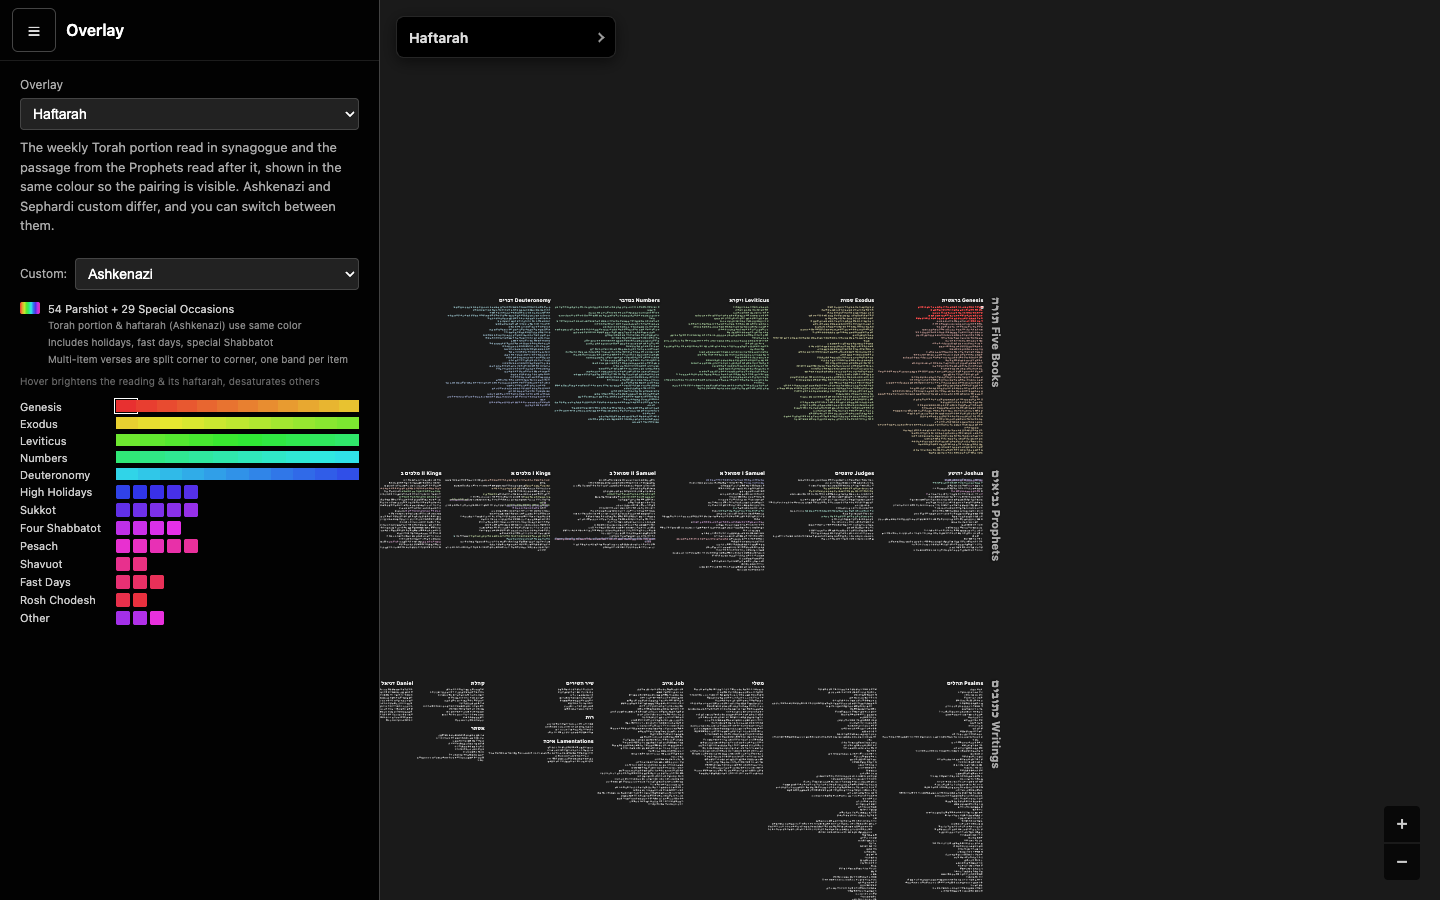
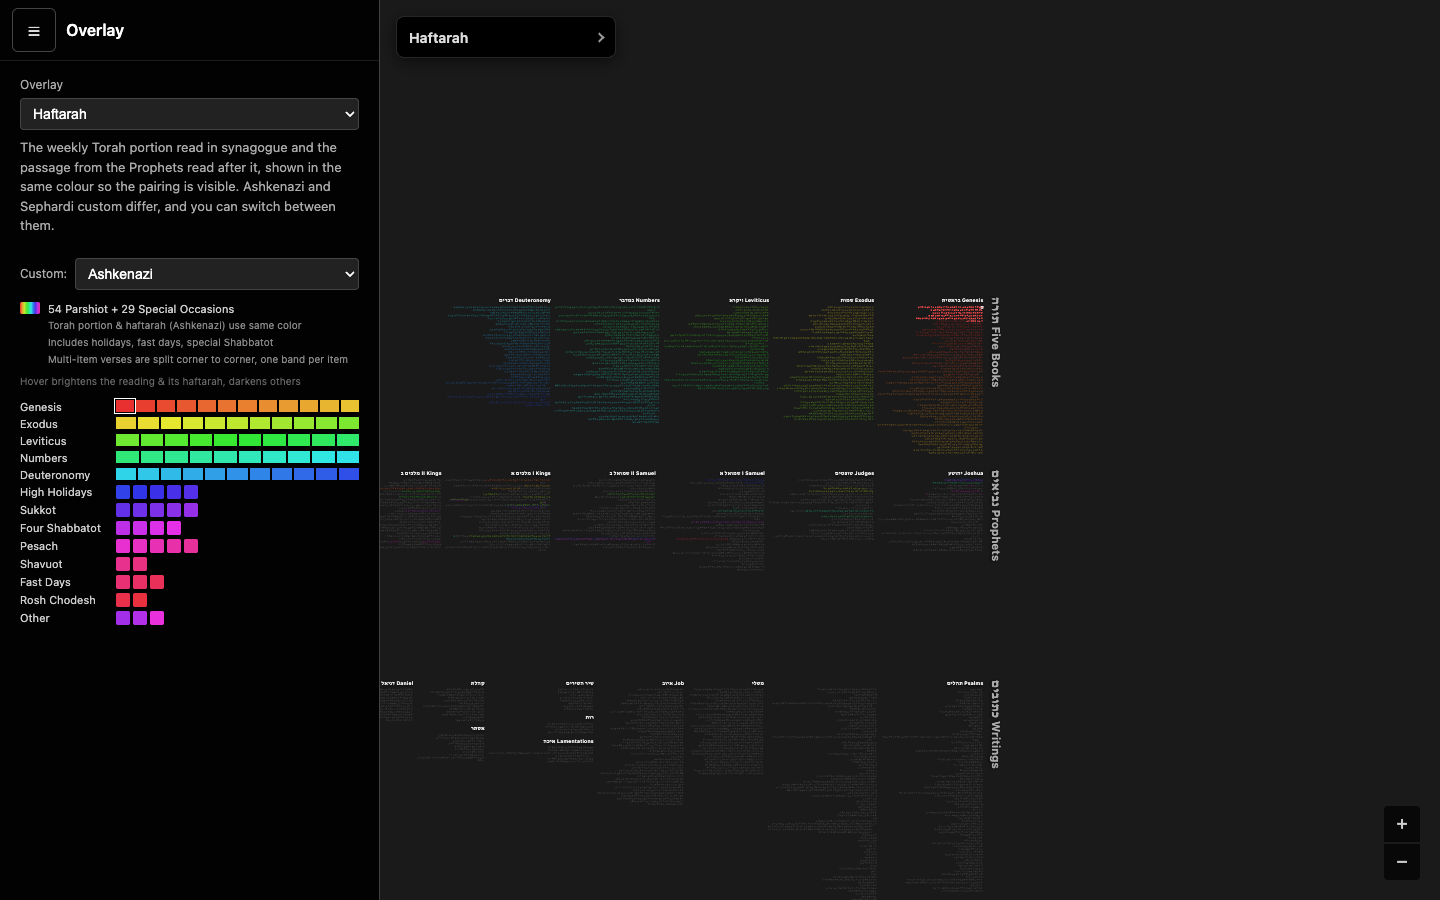
Widen the legend's hover areas and share Trop's hover linger
Each reading's hover area reaches halfway across the gaps around it, so
sweeping the pointer along the key moves from reading to reading without
passing over nothing. The 150ms linger Trop's chart used moves to
utils/hover.ts, and the legend uses it too.

diff --git a/src/overlays/trop.ts b/src/overlays/trop.ts
@@ -10,6 +10,7 @@ import { tanakhKey, tanakhIdentitiesEqual } from '../types.ts';
 import { isNikkud } from '../hebrew.ts';
 import type { VerseTexts } from '../verseTexts.ts';
 import { buildTropIndex, getTropByFrequency, getRarityTier } from '../trop.ts';
+import { lingeringHover } from '../utils/hover.ts';
 import { HIGHLIGHT_CONSTANTS } from '../constants.ts';
 import { scaleToGradient, buildLegendGradient, interpolateGradient } from '../utils/color.ts';
 import type { ColorStop } from '../utils/color.ts';
@@ -28,9 +29,6 @@ export interface TropSettings {
   readonly mark: string | null;
   readonly preview: string | null;
 }
-
-/** How long a preview outlasts the pointer, so crossing the gap between buttons does not blink the map. */
-const PREVIEW_LINGER_MS = 150;
 
 function shownMark(settings: TropSettings): string | null {
   return settings.preview ?? settings.mark;
@@ -166,7 +164,9 @@ function renderTropChart(
       </div>
     `;
     chart = container.querySelector('.trop-chart') as HTMLElement;
-    let leaving: ReturnType<typeof setTimeout> | undefined;
+    const preview = lingeringHover<string>((slug) =>
+      onChange((current) => ({ ...current, preview: slug })),
+    );
 
     for (const entry of tropByFrequency) {
       const slug = slugify(entry.name);
@@ -180,17 +180,8 @@ function renderTropChart(
         button.classList.add('rare');
       }
 
-      button.addEventListener('mouseenter', () => {
-        clearTimeout(leaving);
-        onChange((current) => ({ ...current, preview: slug }));
-      });
-
-      button.addEventListener('mouseleave', () => {
-        leaving = setTimeout(
-          () => onChange((current) => ({ ...current, preview: null })),
-          PREVIEW_LINGER_MS,
-        );
-      });
+      button.addEventListener('mouseenter', () => preview.enter(slug));
+      button.addEventListener('mouseleave', () => preview.leave());
 
       button.addEventListener('click', () => {
         onChange((current) => ({ ...current, mark: current.mark === slug ? null : slug }));

diff --git a/src/main.ts b/src/main.ts
@@ -50,6 +50,7 @@ import {
 } from './urlState.ts';
 import { resolveViewState, cameraForView, type ViewState } from './viewState.ts';
 import { debounce } from './utils/debounce.ts';
+import { lingeringHover } from './utils/hover.ts';
 import { getSidebarElements, updateSidebar, setWordClickHandler } from './sidebar.ts';
 import {
   createCamera,
@@ -974,18 +975,23 @@ async function main(): Promise<void> {
 
   // A legend entry marked with `data-hover-verse` hovers that verse, colouring
   // the map as the cursor over it would; the popup stays shut.
+  const legendHover = lingeringHover<TanakhLayout>((verse) => {
+    const previousHover = mouseState.hoveredVerse;
+    if (tanakhIdentitiesEqual(previousHover, verse)) return;
+    setHoveredVerse(mouseState, verse);
+    repaint(previousHover);
+  });
+
   function hoverFromLegend(e: PointerEvent): void {
     if (e.pointerType === 'touch') return;
     const target =
       e.type === 'pointerleave' ? null : (e.target as Element).closest('[data-hover-verse]');
     const ref = target instanceof HTMLElement ? target.dataset.hoverVerse : undefined;
     const parsed = ref ? parseVerseFromUrl(ref) : null;
-    const verse = parsed ? (findTanakhItem(verses, parsed) ?? null) : null;
+    const verse = parsed ? findTanakhItem(verses, parsed) : undefined;
 
-    const previousHover = mouseState.hoveredVerse;
-    if (tanakhIdentitiesEqual(previousHover, verse)) return;
-    setHoveredVerse(mouseState, verse);
-    repaint(previousHover);
+    if (verse) legendHover.enter(verse);
+    else legendHover.leave();
   }
   overlayLegendContainer?.addEventListener('pointerover', hoverFromLegend);
   overlayLegendContainer?.addEventListener('pointerleave', hoverFromLegend);

diff --git a/src/__tests__/unit/hover.test.ts b/src/__tests__/unit/hover.test.ts
@@ -1,0 +1,37 @@
+import { describe, it, expect, vi, beforeEach, afterEach } from 'vitest';
+import { lingeringHover, HOVER_LINGER_MS } from '../../utils/hover';
+
+describe('lingeringHover', () => {
+  beforeEach(() => vi.useFakeTimers());
+  afterEach(() => vi.useRealTimers());
+
+  it('shows a target at once', () => {
+    const show = vi.fn();
+    lingeringHover(show).enter('a');
+    expect(show).toHaveBeenCalledWith('a');
+  });
+
+  it('clears only once the pointer has been off every target for the linger', () => {
+    const show = vi.fn();
+    const hover = lingeringHover(show);
+    hover.enter('a');
+    hover.leave();
+
+    vi.advanceTimersByTime(HOVER_LINGER_MS - 1);
+    expect(show).not.toHaveBeenCalledWith(null);
+    vi.advanceTimersByTime(1);
+    expect(show).toHaveBeenLastCalledWith(null);
+  });
+
+  it('never clears when the pointer crosses a gap onto the next target', () => {
+    const show = vi.fn();
+    const hover = lingeringHover(show);
+    hover.enter('a');
+    hover.leave();
+    vi.advanceTimersByTime(HOVER_LINGER_MS / 2);
+    hover.enter('b');
+    vi.advanceTimersByTime(HOVER_LINGER_MS * 2);
+
+    expect(show.mock.calls).toEqual([['a'], ['b']]);
+  });
+});

diff --git a/src/utils/hover.ts b/src/utils/hover.ts
@@ -1,0 +1,23 @@
+/** How long a hover outlasts the pointer, so crossing the gap between two targets does not blink the map. */
+export const HOVER_LINGER_MS = 150;
+
+/**
+ * Hands `show` each target the pointer enters, and null once the pointer has
+ * been off every target for HOVER_LINGER_MS.
+ */
+export function lingeringHover<T>(show: (target: T | null) => void): {
+  enter(target: T): void;
+  leave(): void;
+} {
+  let leaving: ReturnType<typeof setTimeout> | undefined;
+  return {
+    enter(target) {
+      clearTimeout(leaving);
+      show(target);
+    },
+    leave() {
+      clearTimeout(leaving);
+      leaving = setTimeout(() => show(null), HOVER_LINGER_MS);
+    },
+  };
+}

diff --git a/src/styles/overlays/haftarah.css b/src/styles/overlays/haftarah.css
@@ -36,6 +36,22 @@
   border-radius: 2px;
 }
 
+/* Each hover area reaches halfway across the gaps around it, so the pointer
+   passes from one reading straight to the next. */
+.haftarah-key [data-hover-verse] {
+  position: relative;
+}
+
+.haftarah-key [data-hover-verse]::before {
+  content: '';
+  position: absolute;
+  inset: -3px -1.5px;
+}
+
+.haftarah-key-segment::before {
+  inset: -3px -1px;
+}
+
 .haftarah-key [data-hover-verse]:hover {
   outline: 1px solid #fff;
   outline-offset: 1px;
